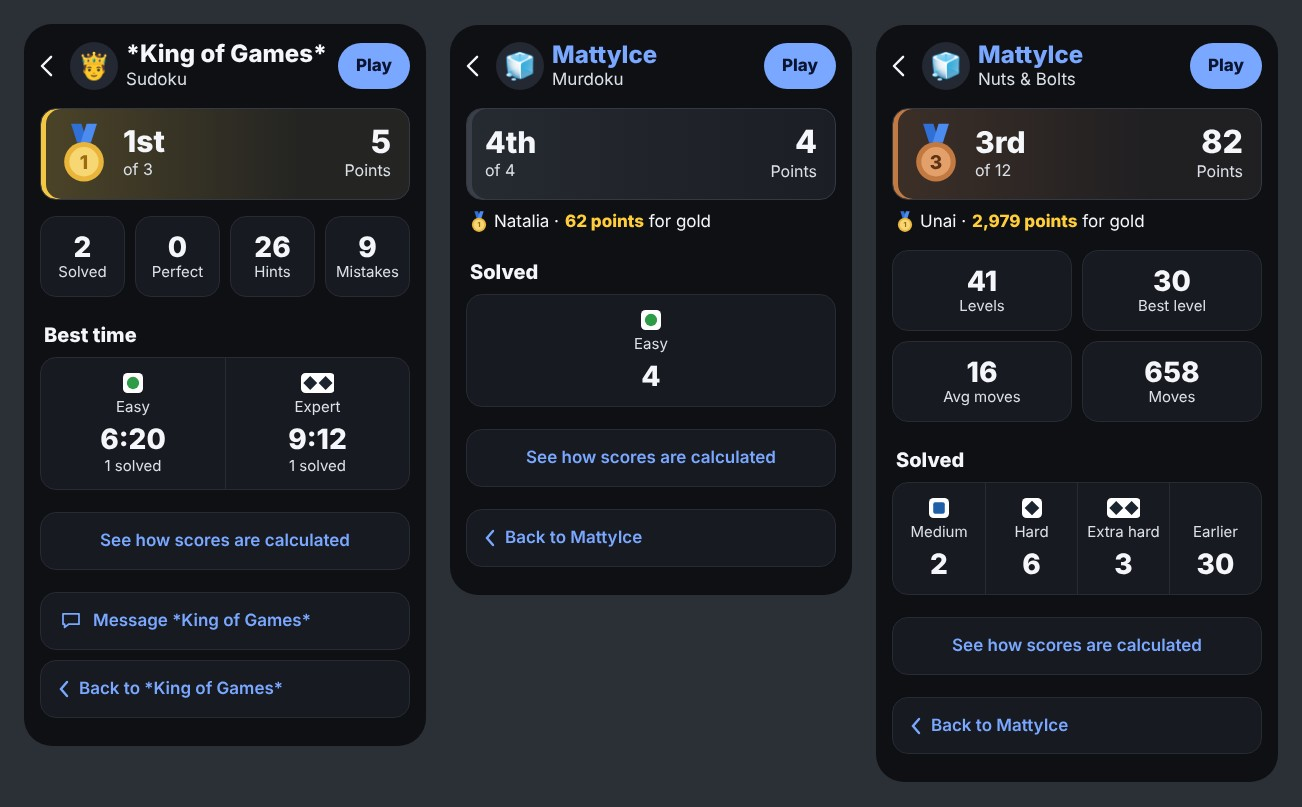
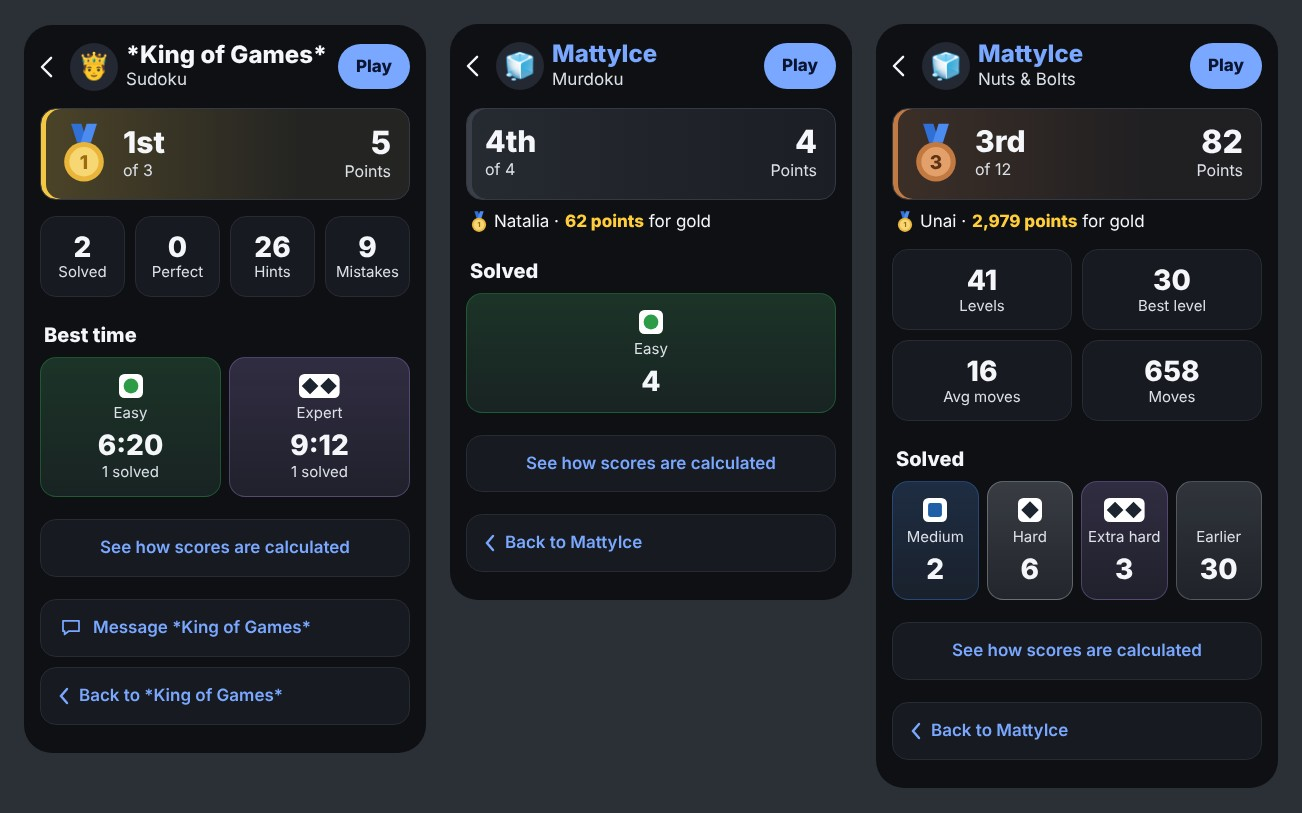
Mockup: muted level tints on every difficulty strip; Snake, Ball Run, Hill Climb, Brick Breaker as strips; Skeeball machines tinted
Claude-Session: https://claude.ai/code/session_01BGm65ZYhCPDBaTbUDzWngg

diff --git a/docs/mockups/lb2-player-game-v2.html b/docs/mockups/lb2-player-game-v2.html
@@ -87,11 +87,12 @@ body{background:#2B2F36;font:17px/1.4 -apple-system,BlinkMacSystemFont,"SF Pro T
 .grp.open .sub{display:flex}
 .grp.open>.row{background:#1C2027}
 /* difficulty strip: one card, a column per level */
-.strip{display:grid;background:var(--surf);border:1px solid var(--line);border-radius:16px;overflow:hidden}
-.strip>div{display:flex;flex-direction:column;align-items:center;gap:2px;padding:14px 4px 14px;border-left:1px solid var(--line);text-align:center;min-width:0}
-.strip>div:first-child{border-left:0}
+.strip{display:grid;gap:8px}
+.strip>div{display:flex;flex-direction:column;align-items:center;gap:2px;padding:14px 4px 14px;text-align:center;min-width:0;border-radius:16px;background:linear-gradient(180deg,rgba(var(--t),.20),rgba(var(--t),.07)),var(--surf);border:1px solid rgba(var(--t),.38)}
+.lv-none{--t:150,156,168;--tf:#9AA1AD}
 .strip .sh{height:22px;display:flex;align-items:center}
-.strip .sh svg{height:20px;width:auto}
+.strip .sh svg{height:24px;width:auto}
+.strip .sh{height:28px}
 .strip .w{font-size:15px;color:var(--sub);white-space:nowrap}
 .strip b{font-size:28px;font-weight:800;line-height:1.15;margin-top:4px;white-space:nowrap}
 .strip small{font-size:15px;color:var(--sub);line-height:1.25;white-space:nowrap}
@@ -181,7 +182,8 @@ const CHEV = '<svg class="chev" viewBox="0 0 20 20" fill="none" stroke="currentC
 // A level row; its "first to" lines stay folded until the row is tapped (Matt, 2026-11-08).
 const grp = (icon, label, w, l, subs, open) => `<div class="grp${open ? ' open' : ''}" onclick="this.classList.toggle('open')">${row({ icon, label, sub: wl(w, l), bar: pc(w, l), right: pc(w, l) + '%' }).replace(/<\/div>$/, subs.length ? CHEV + '</div>' : '<span style="width:20px"></span></div>')}${subs.map(([lab, sw, sl]) => `<div class="sub"><div class="mid"><b>${lab}</b><span>${clauses(wl(sw, sl))}</span><div class="bar"><i style="width:${pc(sw, sl)}%"></i></div></div><div class="rt"><b>${pc(sw, sl)}%</b></div></div>`).join('')}</div>`;
 const spark = (vals) => { const mx = Math.max(...vals), n = vals.length; const pts = vals.map((v, i) => `${(i * 300) / (n - 1)},${38 - (v / mx) * 34}`).join(' '); return `<svg viewBox="0 0 300 40" preserveAspectRatio="none"><polyline points="${pts}" fill="none" stroke="#7AA7FF" stroke-width="2.5" vector-effect="non-scaling-stroke"/></svg>`; };
-const mach = (color, name, q, days, vals) => `<div class="card mc"><h5><i style="background:${color}"></i>${name}</h5><div class="q">${q.map(([v, l]) => `<div><b>${v}</b><span>${l}</span></div>`).join('')}</div><div class="sp"><span>Best a day</span>${spark(vals)}<span>${days} days</span></div></div>`;
+const RGB = (hex) => [1, 3, 5].map((i) => parseInt(hex.slice(i, i + 2), 16)).join(',');
+const mach = (color, name, q, days, vals) => `<div class="card mc" style="--t:${RGB(color)};background:linear-gradient(180deg,rgba(var(--t),.16),rgba(var(--t),.04) 110px),var(--surf);border-color:rgba(var(--t),.38)"><h5><i style="background:${color}"></i>${name}</h5><div class="q">${q.map(([v, l]) => `<div><b>${v}</b><span>${l}</span></div>`).join('')}</div><div class="sp"><span>Best a day</span>${spark(vals)}<span>${days} days</span></div></div>`;
 const WORD = { 1: 'Easy', 2: 'Medium', 3: 'Hard', 4: 'Expert' };
 // Flick Soccer's levels (Matt, 2026-11-08: "they all look identical at a glance"): a strip of columns, each level's
 // big shape, name, win % and record; tap one to open its "first to" lines under the strip. Folded by default.
@@ -201,10 +203,11 @@ function lvTap(btn) {
   box.querySelectorAll('.lvp').forEach((p) => { p.hidden = was || p.dataset.i !== i; });
 }
 // strip([[tier or label, big, small, small2?], ...]): the level's shape and word, the number, a caption.
+// Every level column wears its muted tint, like Flick Soccer's (Matt, 2026-11-08: "do that for everything").
 const strip = (cells) => `<div class="strip" style="grid-template-columns:repeat(${cells.length},minmax(0,1fr))">${cells.map(([t, big, sm, sm2]) => {
   const tier = typeof t === 'number' ? t : (Array.isArray(t) ? t[0] : 0);
   const word = Array.isArray(t) ? t[1] : (tier ? WORD[tier] : t);
-  return `<div><span class="sh">${tier ? SH[tier] : ''}</span><span class="w">${word}</span><b>${big}</b>${sm ? `<small>${sm}</small>` : ''}${sm2 ? `<small>${sm2}</small>` : ''}</div>`;
+  return `<div class="${tier ? TINT[tier] : 'lv-none'}"><span class="sh">${tier ? SH[tier] : ''}</span><span class="w">${word}</span><b>${big}</b>${sm ? `<small>${sm}</small>` : ''}${sm2 ? `<small>${sm2}</small>` : ''}</div>`;
 }).join('')}</div>`;
 const holes = (course, list) => `<h5>${course}</h5><div class="hg">${list.map(([n, s]) => `<div class="hc"><b>${s}</b><span>${n}</span></div>`).join('')}</div>`;
 
@@ -257,24 +260,12 @@ P.push(topBar(...MATTY, 'Nuts &amp; Bolts', true) + stand(3, 12, '82', 'Points')
 // 8. Snake
 P.push(topBar(...MATTY, 'Snake', true) + stand(1, 16, '43', 'Length', 3)
   + tiles([['16', 'Runs'], ['43', 'Longest snake']])
-  + h('Walls off') + rows([
-    { icon: SH[1], label: 'Easy', sub: '7 runs', right: '21', unit: 'longest' },
-    { icon: SH[2], label: 'Medium', sub: '2 runs', right: '18', unit: 'longest' },
-    { icon: SH[3], label: 'Hard', sub: '7 runs', right: '43', unit: 'longest' },
-  ]) + how + backTo('MattyIce'));
+  + h('Longest · walls off') + strip([[1, '21', '7 runs'], [2, '18', '2 runs'], [3, '43', '7 runs']]) + how + backTo('MattyIce'));
 // 9. Ball Run
 P.push(topBar(...MATTY, 'Ball Run', true) + stand(1, 19, '129', 'Obstacles', 3)
   + tiles([['81', 'Runs'], ['164', 'Most obstacles']])
-  + h('Classic · 53 runs') + rows([
-    { icon: SH[1], label: 'Easy', right: '164', unit: 'obstacles' },
-    { icon: SH[2], label: 'Medium', right: '109', unit: 'obstacles' },
-    { icon: SH[3], label: 'Hard', right: '129', unit: 'obstacles' },
-  ])
-  + h('Orbital · 28 runs') + rows([
-    { icon: SH[1], label: 'Easy', right: '9', unit: 'obstacles' },
-    { icon: SH[2], label: 'Medium', right: '38', unit: 'obstacles' },
-    { icon: SH[3], label: 'Hard', right: '122', unit: 'obstacles' },
-  ]) + how + backTo('MattyIce'));
+  + h('Classic · 53 runs') + strip([[1, '164'], [2, '109'], [3, '129']])
+  + h('Orbital · 28 runs') + strip([[1, '9'], [2, '38'], [3, '122']]) + how + backTo('MattyIce'));
 // 10. Hill Climb
 P.push(topBar(...MATTY, 'Hill Climb', true) + stand(3, 10, '328', 'Meters', 2) + gap('*TP*', `<b>${SHS(2).replace('height:22px', 'height:16px;vertical-align:-2px;margin-right:4px')}1,643 m</b> for gold`)
   + tiles([['26', 'Runs'], ['2,884 m', 'Furthest'], ['11,900', 'Coins']])
@@ -282,18 +273,12 @@ P.push(topBar(...MATTY, 'Hill Climb', true) + stand(3, 10, '328', 'Meters', 2) +
     { label: 'Countryside', right: '2,884 m', unit: 'furthest' },
     { label: 'Desert', right: '328 m', unit: 'furthest' },
   ])
-  + h('Difficulty') + rows([
-    { icon: SH[1], label: 'Easy', right: '16', unit: 'runs' },
-    { icon: SH[2], label: 'Medium', right: '10', unit: 'runs' },
-  ])
+  + h('Runs') + strip([[1, '16'], [2, '10']])
   + h('Numbers') + lrows([['Flips', '0']]) + how + backTo('MattyIce'));
 // 11. Brick Breaker
 P.push(topBar(...MATTY, 'Brick Breaker', true) + stand(2, 7, '166,100', 'Points', 3) + gap('*King of Games*', `<b>${SHS(3).replace('height:22px', 'height:16px;vertical-align:-2px;margin-right:4px')}32,731 points</b> for gold`)
   + tiles([['3', 'Played'], ['96,577', 'Average'], ['x29', 'Best combo']])
-  + h('Difficulty') + rows([
-    { icon: SH[2], label: 'Medium', sub: '2 played', right: '69,160', unit: 'best' },
-    { icon: SH[3], label: 'Hard', sub: '1 played', right: '166,100', unit: 'best' },
-  ])
+  + h('Best score') + strip([[2, '69,160', '2 played'], [3, '166,100', '1 played']])
   + h('Numbers') + lrows([['Bricks', '572'], ['Stages cleared', '8'], ['Circuits', '1']]) + how + backTo('MattyIce'));
 // 12. Golf
 P.push(topBar(...MATTY, 'Golf', true) + stand(3, 3, '2 under', 'Best round') + gap('*King of Games*', '<b>3 strokes fewer</b> for gold')
